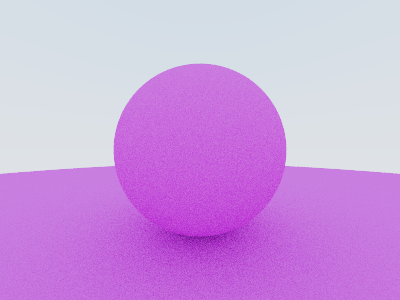
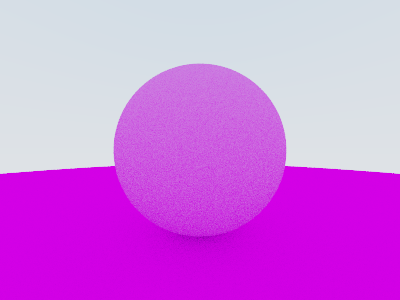
Material system rework 2.0

diff --git a/src/Scene/Scene.hpp b/src/Scene/Scene.hpp
@@ -8,20 +8,22 @@ class Scene
 public:
     Scene();
 
-    inline usize AddMaterial(const Material& material)
+    template <Material T, typename... Args>
+        requires std::constructible_from<T, Args...>
+    inline MaterialHandle CreateMaterial(Args&&... args)
     {
-        m_Materials.push_back(material);
-        return m_Materials.size() - 1;
+        m_Materials.emplace_back(std::forward<Args>(args)...);
+        return MaterialHandle { m_Materials.size() - 1 };
     }
 
-    inline const Material& GetMaterial(usize index) const
+    inline const MaterialVariant& GetMaterial(MaterialHandle handle) const
     {
-        return m_Materials.at(index);
+        return m_Materials.at(handle.index);
     }
 
     template <Primitive T, typename... Args>
         requires std::is_constructible_v<T, Args...>
-    void Push(Args&&... args)
+    inline void Push(Args&&... args)
     {
         if constexpr (std::is_same_v<T, Sphere>) {
             m_Spheres.emplace_back(std::forward<Args>(args)...);
@@ -31,6 +33,6 @@ public:
     bool Hit(const Ray& ray, Interval clip, HitRecord& record) const;
 
 private:
-    std::vector<Material> m_Materials;
+    std::vector<MaterialVariant> m_Materials;
     std::vector<Sphere> m_Spheres;
 };

diff --git a/src/Materials/Material.hpp b/src/Materials/Material.hpp
@@ -2,16 +2,17 @@
 
 #include "Primitives/HitRecord.hpp"
 
-enum class MaterialType : u8
+#include "Lambertian.hpp"
+
+template <typename T>
+concept Scatterable = requires(const T& t, const Ray& r, const HitRecord& rec, glm::vec3& att, Ray& scat)
 {
-    None,
+    { t.Scatter(r, rec, att, scat) } -> std::convertible_to<bool>;
+};
+
+using MaterialVariant = std::variant<
     Lambertian
-};
+>;
 
-struct Material
-{
-    MaterialType type { MaterialType::None };
-    glm::vec3 albedo { 0.0f };
-
-    bool Scatter(const Ray& ray, const HitRecord& record, glm::vec3& attenuation, Ray& scattered) const;
-};
+template <typename T>
+concept Material = IsVariantMember<T, MaterialVariant>::value && Scatterable<T>;

diff --git a/src/Main.cpp b/src/Main.cpp
@@ -33,10 +33,10 @@ int main()
 
 	std::unique_ptr<Scene> scene = std::make_unique<Scene>();
 
-	usize lambertian = scene->AddMaterial(Material { MaterialType::Lambertian, glm::vec3(0.8f, 0.2f, 0.8f) });
+	MaterialHandle lamb = scene->CreateMaterial<Lambertian>(glm::vec3(0.8f, 0.2f, 0.8f));
 
-	scene->Push<Sphere>(glm::vec3(0.0f, 0.0f, -1.0f), 0.5f, lambertian);
-	scene->Push<Sphere>(glm::vec3(0.0f, -100.5f, -1.0f), 100.0f, lambertian);
+	scene->Push<Sphere>(glm::vec3(0.0f, 0.0f, -1.0f), 0.5f, lamb);
+	scene->Push<Sphere>(glm::vec3(0.0f, -100.5f, -1.0f), 100.0f);
 
 	std::unique_ptr<Camera> camera = std::make_unique<Camera>(
 		IMAGE_WIDTH, IMAGE_HEIGHT,

diff --git a/src/Materials/Lambertian.cpp b/src/Materials/Lambertian.cpp
@@ -1,0 +1,23 @@
+#include "Lambertian.hpp"
+
+#include "Core/Rng.hpp"
+
+Lambertian::Lambertian(const glm::vec3& albedo)
+    : m_Albedo(albedo)
+{
+}
+
+bool Lambertian::Scatter(const Ray& ray, const HitRecord& record, glm::vec3& attenuation, Ray& scattered) const
+{
+    glm::vec3 direction = record.normal + Random::UnitVector();
+
+    constexpr f32 epsilon = std::numeric_limits<f32>::epsilon();
+    if (glm::abs(direction.x) < epsilon && glm::abs(direction.y) < epsilon && glm::abs(direction.z) < epsilon) {
+        direction = record.normal;
+    }
+
+    scattered = Ray(record.p, direction);
+    attenuation = m_Albedo;
+
+    return true;
+}

diff --git a/src/Scene/Camera.cpp b/src/Scene/Camera.cpp
@@ -89,8 +89,11 @@ glm::vec3 Camera::RayColor(const Ray& ray, usize depth)
         glm::vec3 attenuation;
         Ray scattered;
 
-        const auto& material = m_Scene->GetMaterial(record.material);
-        if (material.Scatter(ray, record, attenuation, scattered)) {
+        bool scatter = std::visit([&](const auto& mat) -> bool {
+            return mat.Scatter(ray, record, attenuation, scattered);
+        }, m_Scene->GetMaterial(record.material));
+
+        if (scatter) {
             return attenuation * RayColor(scattered, depth - 1);
         }
 

diff --git a/src/Primitives/HitRecord.hpp b/src/Primitives/HitRecord.hpp
@@ -2,6 +2,17 @@
 
 #include "Containers/Ray.hpp"
 
+struct MaterialHandle
+{
+    // 0 index should be the default material
+    usize index { 0 };
+
+    MaterialHandle(usize index = 0)
+        : index(index)
+    {
+    }
+};
+
 struct HitRecord
 {
     glm::vec3 p;
@@ -9,7 +20,7 @@ struct HitRecord
     f32 t;
     bool frontFace;
 
-    usize material;
+    MaterialHandle material;
 
     void SetFace(const Ray& ray, const glm::vec3& outNormal)
     {

diff --git a/src/Primitives/Sphere.hpp b/src/Primitives/Sphere.hpp
@@ -6,7 +6,7 @@
 class Sphere
 {
 public:
-    Sphere(const glm::vec3& center, f32 radius, usize material = 0);
+    Sphere(const glm::vec3& center, f32 radius, MaterialHandle material = MaterialHandle());
     ~Sphere() = default;
 
     bool Hit(const Ray& ray, Interval t, HitRecord& record) const;
@@ -15,5 +15,5 @@ private:
     glm::vec3 m_Center;
     f32 m_Radius;
 
-    usize m_Material { 0 };
+    MaterialHandle m_Material;
 };

diff --git a/src/Primitives/Primitive.hpp b/src/Primitives/Primitive.hpp
@@ -6,14 +6,5 @@ using PrimitiveVariant = std::variant<
     Sphere
 >;
 
-template <typename T, typename Variant>
-struct IsVariantMember;
-
-template <typename T, typename... Ts>
-struct IsVariantMember<T, std::variant<Ts...>>
-    : std::disjunction<std::is_same<T, Ts>...>
-{
-};
-
 template <typename T>
 concept Primitive = IsVariantMember<T, PrimitiveVariant>::value;

diff --git a/src/Materials/Lambertian.hpp b/src/Materials/Lambertian.hpp
@@ -1,0 +1,17 @@
+#pragma once
+
+#include <glm/glm.hpp>
+
+#include "Primitives/HitRecord.hpp"
+#include "Containers/Ray.hpp"
+
+class Lambertian
+{
+public:
+    Lambertian(const glm::vec3& albedo);
+
+    bool Scatter(const Ray& ray, const HitRecord& record, glm::vec3& attenuation, Ray& scattered) const;
+
+private:
+    glm::vec3 m_Albedo;
+};

diff --git a/src/Scene/Scene.cpp b/src/Scene/Scene.cpp
@@ -3,10 +3,7 @@
 Scene::Scene()
 {
     // Default material
-    m_Materials.push_back(Material {
-        .type = MaterialType::Lambertian,
-        .albedo = glm::vec3(1.0f, 0.0f, 1.0f)
-    });
+    m_Materials.push_back(Lambertian(glm::vec3(1.0f, 0.0f, 1.0f)));
 }
 
 bool Scene::Hit(const Ray& ray, Interval clip, HitRecord& record) const

diff --git a/src/Core/Types.hpp b/src/Core/Types.hpp
@@ -14,3 +14,12 @@ using f32 = float;
 using f64 = double;
 
 using usize = size_t;
+
+template <typename T, typename Variant>
+struct IsVariantMember;
+
+template <typename T, typename... Ts>
+struct IsVariantMember<T, std::variant<Ts...>>
+    : std::disjunction<std::is_same<T, Ts>...>
+{
+};

diff --git a/src/Primitives/Sphere.cpp b/src/Primitives/Sphere.cpp
@@ -1,6 +1,6 @@
 #include "Sphere.hpp"
 
-Sphere::Sphere(const glm::vec3& center, f32 radius, usize material)
+Sphere::Sphere(const glm::vec3& center, f32 radius, MaterialHandle material)
     : m_Center(center), m_Radius(std::fmax(0.0f, radius)), m_Material(material)
 {
 }
